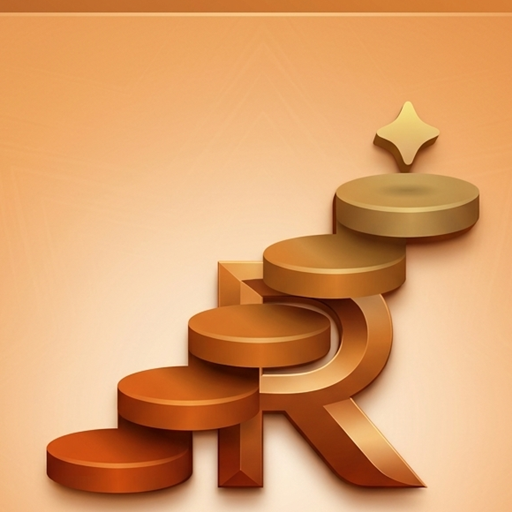
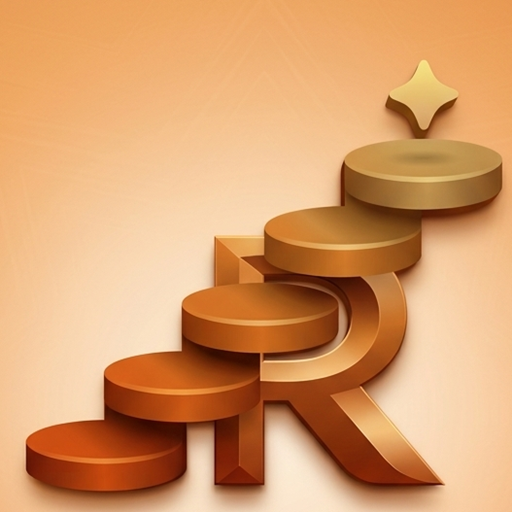
fix: segunda ronda tras prueba real en Android/Chrome
- Logo: reajuste del recorte (R seguia baja)
- Hero: chip "y muchas palabras mas" (sin numero inventado)
- Agitacion: contraste de tarjetas subido
- Detector: SOSTENER_MS 350->200 (se sentia lento)
- Praxias: se quita modo "quieto" del companero (causa real del reporte
  de "videos estaticos" - todos los ejercicios usaban PASOS_EJERCICIOS,
  asi que TODOS quedaban congelados a proposito)
- Premios: drop-shadow en el accesorio para que no se vea "pegado"

Changed region(s): [[0.0312, 0.0938, 1.0, 1.0], [0.0, 0.0, 1.0, 0.0312]]

diff --git a/superrre-app/components/app/Agitacion.tsx b/superrre-app/components/app/Agitacion.tsx
@@ -10,7 +10,7 @@ export function Agitacion() {
         </h2>
 
         <div className="mt-9 grid sm:grid-cols-2 gap-4">
-          <div className="rounded-2xl bg-surface-secondary p-5 flex items-start gap-4">
+          <div className="rounded-2xl bg-surface-primary shadow-sm p-5 flex items-start gap-4">
             <span className="flex h-11 w-11 shrink-0 items-center justify-center rounded-full bg-brand-accent-soft text-brand-accent">
               <IconAlarmClock className="h-5 w-5" />
             </span>
@@ -28,7 +28,7 @@ export function Agitacion() {
             </div>
           </div>
 
-          <div className="rounded-2xl bg-surface-secondary p-5 flex items-start gap-4">
+          <div className="rounded-2xl bg-surface-primary shadow-sm p-5 flex items-start gap-4">
             <span className="flex h-11 w-11 shrink-0 items-center justify-center rounded-full bg-brand-accent-soft text-brand-accent">
               <IconGraduation className="h-5 w-5" />
             </span>

diff --git a/superrre-app/hooks/useRugidoDetector.ts b/superrre-app/hooks/useRugidoDetector.ts
@@ -10,7 +10,9 @@ export type EstadoDeteccion =
   | "sin-microfono";
 
 const UMBRAL_SONIDO = 32; // volumen RMS (0-100) que cuenta como "intento real"
-const SOSTENER_MS = 350; // cuánto debe durar el sonido para contar
+const SOSTENER_MS = 200; // cuánto debe durar el sonido para contar — bajado
+// de 350ms: el usuario lo probó real y sintió que tardaba en reconocer el
+// grito, aunque sí lo detectaba
 
 /** Detecta un intento de sonido real por micrófono — 100% local, nunca se sube a internet. */
 export function useRugidoDetector() {

diff --git a/superrre-app/app/app/praxias/page.tsx b/superrre-app/app/app/praxias/page.tsx
@@ -74,7 +74,7 @@ function DemoEjercicio({
         </p>
         {src && (
           <div className="mt-4 flex flex-col items-center">
-            <VideoCompanero src={src} size={96} quieto />
+            <VideoCompanero src={src} size={96} />
             <p className="mt-1 text-xs font-bold text-txt-tertiary">
               {nombrePersonaje} también lo intenta contigo
             </p>

diff --git a/superrre-app/components/app/Hero.tsx b/superrre-app/components/app/Hero.tsx
@@ -37,6 +37,9 @@ export function Hero() {
                 {palabra}
               </span>
             ))}
+            <span className="rounded-full bg-brand-primary-soft text-txt-on-primary-soft text-sm font-bold px-3 py-1">
+              y muchas palabras más
+            </span>
           </div>
 
           <div className="mt-7 flex flex-col sm:flex-row gap-3 sm:items-center">

diff --git a/superrre-app/app/app/premios/page.tsx b/superrre-app/app/app/premios/page.tsx
@@ -378,6 +378,7 @@ export default function PremiosPage() {
                         left: `${acc.left}%`,
                         transform: "translateX(-50%)",
                         fontSize: acc.tamaño,
+                        filter: "drop-shadow(0 3px 4px rgba(34,51,46,0.35))",
                       }}
                       aria-hidden="true"
                     >

diff --git a/ESTADO.md b/ESTADO.md
@@ -1,6 +1,16 @@
 # ESTADO — SuperErre
 Última actualización: 2026-08-18 | Sesión actual: 6/7
 
+⏸ CHECKPOINT — Sesión 6/7. Ronda 2 de fixes tras probar el usuario en su celular real (Android + Chrome) el commit anterior (`3f15198`):
+- Logo: la R seguía viéndose baja con el primer recorte — se ajustó de nuevo (menos margen arriba, que sobraba).
+- Hero: agregado chip "y muchas palabras más" (se evitó poner un número específico tipo "30 palabras" porque no era exacto contando el contenido real de `escalera-data.ts` — solo hay 10 "palabra" formales por ahora).
+- Agitacion.tsx: tarjetas "10-15 min diarios"/"En 6 meses, igual" tenían casi el mismo color que el fondo — pasadas a `bg-surface-primary` + sombra.
+- `useRugidoDetector.ts`: usuario confirmó que YA detecta (el fix de `resume()` funcionó) pero sentía que tardaba — bajado `SOSTENER_MS` de 350 a 200.
+- **Causa real de "videos estáticos" en Praxias encontrada**: `VideoCompanero` se usaba con `quieto={true}` en TODOS los ejercicios con pasos (los 9 de Praxias, ya que todos tienen `PASOS_EJERCICIOS`) — era comportamiento INTENCIONAL de una sesión anterior (congelar en un cuadro fijo), pero el usuario lo percibe como bug. Se quitó `quieto` para que el compañero loopee como el resto.
+- Premios "Mi personaje": el accesorio (emoji) se veía "como un sticker" pegado sobre el video del personaje — se agregó `drop-shadow` para integrarlo mejor. Límite honesto: sigue siendo un emoji sobre un video real, no un asset ilustrado a medida — mejora parcial, no resuelve el fondo del problema (haría falta un accesorio dibujado/animado a medida).
+Todo verificado con `tsc --noEmit` (limpio) y push a producción. NO verificado visualmente en este entorno — el panel de preview no compositó ni una sola vez en toda la sesión (Browser pane no se mostró). Toda la verificación de esta ronda depende de que el usuario la pruebe de nuevo en su celular.
+Próximo paso exacto: esperar el nuevo feedback del usuario sobre esta ronda.
+
 ⏸ CHECKPOINT — Sesión 6/7 SIGUE EN CURSO. Pase de "diseño premium" (skill `diseno`) + lista de 13 puntos que el usuario reportó tras probar la app en su celular real. **BUG CRÍTICO ENCONTRADO Y CORREGIDO**: `hooks/useRugidoDetector.ts` no llamaba `ctx.resume()` tras crear el `AudioContext` — en varios celulares (sobre todo iOS Safari) el contexto arranca "suspended" y el analizador solo lee silencio para siempre, aunque el mic tenga permiso. Esto explica el reporte del usuario ("rugí varias veces y no lo detectó"). Fix: `if (ctx.state === "suspended") await ctx.resume();` antes de conectar el analyser. ⚠ Falta confirmación del usuario probando en su celular real — no se pudo verificar en este entorno (no hay micrófono real disponible para automatizar la prueba).
 HECHO en este pase (código verificado con `tsc --noEmit`, NO verificado visualmente — el panel de preview no compositó frames en toda la sesión, pendiente capturas reales):
 - Nav inferior: reemplazados los 5 emojis por íconos SVG propios (`IconMap/IconStairs/IconGiftBox/IconUser` nuevos en `icons.tsx`) con chip de fondo en el activo.
